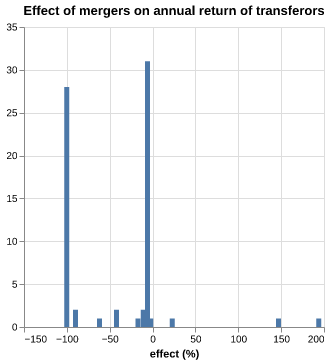
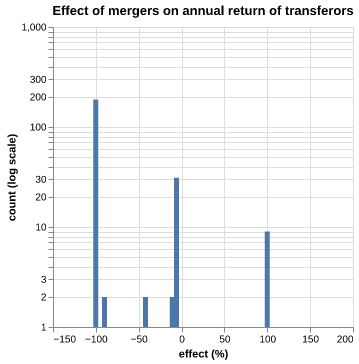
update mergers by annual return analysis

diff --git a/code/charity_commission.py b/code/charity_commission.py
@@ -43,6 +43,7 @@
 import altair as alt
 import dataframe_image as dfi
 import json
+import numpy as np
 import pandas as pd
 import seaborn as sns
 # %% [markdown]
@@ -739,7 +740,7 @@ df.head()
 
 # %%
 # convert charity number to string
-df_ar['registered_charity_number'] = df_ar['registered_charity_number'].apply(str)
+df_ar['registered_charity_number'] = df_ar['registered_charity_number'].apply(str).apply(str.strip)
 
 # %%
 # drop cols
@@ -762,8 +763,11 @@ df_merged_transferee = df.drop(
     df_ar,
     left_on=['transferee_number', 'merger_year_next'],
     right_on=['registered_charity_number', 'fin_start_year'],
-    how='left'
+    how='left',
+    suffixes=['_current', '_next']    
 )
+
+df_merged_transferee.head()
 
 # %%
 # annual return of transferors
@@ -778,8 +782,11 @@ df_merged_transferor = df.drop(
     df_ar,
     left_on=['transferor_number', 'merger_year_next'],
     right_on=['registered_charity_number', 'fin_start_year'],
-    how='left'
+    how='left',
+    suffixes=['_current', '_next']
 )
+
+df_merged_transferor.head()
 
 # %% [markdown]
 # #### Effect
@@ -787,56 +794,88 @@ df_merged_transferor = df.drop(
 # %%
 # drop null income values
 df_merged_transferee = df_merged_transferee.dropna(
-    subset=['total_gross_income_x', 'total_gross_income_y'],
+    subset=['total_gross_income_current', 'total_gross_income_next'],
     how='all'
 )
+
+# %%
+# fill empty incomes with 0
+df_merged_transferee[
+    ['total_gross_income_current', 'total_gross_income_next']
+] = df_merged_transferee[
+    ['total_gross_income_current', 'total_gross_income_next']
+].fillna(0)
 
 # %%
 # annual return change from year N to N+1
 df_merged_transferee['effect'] = (
     (
-        df_merged_transferee['total_gross_income_y']
-        - df_merged_transferee['total_gross_income_x']
+        df_merged_transferee['total_gross_income_next']
+        - df_merged_transferee['total_gross_income_current']
     )
-    / df_merged_transferee['total_gross_income_x']
+    / df_merged_transferee['total_gross_income_current']
     * 100
 )
 
 # %%
+# replace incomes appearing or disappearing by +/-100
+df_merged_transferee['effect'] = df_merged_transferee['effect'].replace([-np.inf, np.inf], [-100, 100])
+
+# %%
 # drop null income values
 df_merged_transferor = df_merged_transferor.dropna(
-    subset=['total_gross_income_x', 'total_gross_income_y'],
+    subset=['total_gross_income_current', 'total_gross_income_next'],
     how='all'
 )
+
+# %%
+# fill empty incomes with 0
+df_merged_transferor[
+    ['total_gross_income_current', 'total_gross_income_next']
+] = df_merged_transferor[
+    ['total_gross_income_current', 'total_gross_income_next']
+].fillna(0)
 
 # %%
 # annual return change from year N to N+1
 df_merged_transferor['effect'] = (
     (
-        df_merged_transferor['total_gross_income_y']
-        - df_merged_transferor['total_gross_income_x']
+        df_merged_transferor['total_gross_income_next']
+        - df_merged_transferor['total_gross_income_current']
     )
-    / df_merged_transferor['total_gross_income_x']
+    / df_merged_transferor['total_gross_income_current']
     * 100
 )
+
+# %%
+# replace incomes appearing or disappearing by +/-100
+df_merged_transferor['effect'] = df_merged_transferor['effect'].replace([-np.inf, np.inf], [-100, 100])
 
 # %% [markdown]
 # ### Effect of mergers on annual return (draft)
 
 # %%
-# charities with no income before merger
+# mergers with no income before merger and income after
 new_charities = df_merged_transferee.loc[
     (
-        pd.isna(df_merged_transferee['total_gross_income_x'])
-        | (df_merged_transferee['total_gross_income_x'] == 0)
+        pd.isna(df_merged_transferee['total_gross_income_current'])
+        | (df_merged_transferee['total_gross_income_current'] == 0)
     )
-    & (df_merged_transferee['total_gross_income_y'] > 0)
-].shape[0] / df_merged_transferee.shape[0]
+    & (df_merged_transferee['total_gross_income_next'] > 0)
+]
+
+# count consolidations as 1 merger
+new_charities = new_charities.drop_duplicates(
+    subset=['transferee', 'date_transferred']
+)
+
+# calculate percentage
+new_charities = new_charities.shape[0] / df_merged_transferee.shape[0]
 
 print(f'{new_charities:.0%} of mergers result in the creation of new charities')
 
 # %% [markdown]
-# 12% of mergers result in the creation of new charities.
+# 11% of mergers result in the creation of new charities.
 #
 # As indicated by the number of unregistered organisations or organisations with an annual return of 0 before merger, and >0 after merger.
 
@@ -844,10 +883,20 @@ print(f'{new_charities:.0%} of mergers result in the creation of new charities')
 # charities with an income before and after merger
 existing_charities = df_merged_transferee.loc[
     ~(
-        pd.isna(df_merged_transferee['total_gross_income_x'])
-        | (df_merged_transferee['total_gross_income_x'] == 0)
+        pd.isna(df_merged_transferee['total_gross_income_current'])
+        | (df_merged_transferee['total_gross_income_current'] == 0)
     )
 ]
+
+# %%
+# frequent effect sizes
+existing_charities[['transferee', 'effect']].value_counts()[:10]
+
+# %%
+# count consolidations as 1 merger
+existing_charities = existing_charities[['transferee', 'date_transferred', 'effect']].drop_duplicates()
+
+existing_charities.head()
 
 # %%
 # effect of mergers on annual return
@@ -856,7 +905,7 @@ chart = (
     .mark_bar()
     .encode(
         alt.X('effect:Q').scale(domain=[-105, 105], clamp=True).title('effect (%)'),
-        alt.Y('count():Q').title(''),
+        alt.Y('count():Q').scale(type='log').title('count (log scale)'),
     )
 ).properties(
     title='Effect of mergers on annual return of transferees'
@@ -867,48 +916,19 @@ chart.save('../charts/effect_transferees.png')
 chart
 
 # %% [markdown]
-# Most mergers seem to result in the transferee having a 80% decrease of their annual return.
+# After a merger, most transferee organisations either cease to exist or have a +/- 40% change to their annual return.
+
+# %% [markdown]
+# According to the data, most mergers (including consolidation mergers) are of the type:
 #
-# This peak at 1200 is reminiscent of a previous chart however...
+# - the transferees do not declare an annual return, indicating either that they cease to exist within the financial period
+# - the transferee have a +/- 40% change to their annual returns within the financial period that a merger happened in.
+#
+# The majority of transferees disappearing after a merger is suspicious and might indicate an issue in the analysis or a subsequent merger into a new structure within the financial period.
 
 # %%
-# charities with especially large effects
-existing_charities.loc[
-    (existing_charities['effect'] < -75)
-    & (existing_charities['effect'] > -80) 
-]
-
-# %% [markdown]
-# What happens if we exclude Kingdom Hall Trust from our analysis?
-
-# %%
-# drop Kingdom Hall Trust from records
-existing_charities_sans_kht = existing_charities.loc[
-    ~existing_charities['transferee'].str.lower().str.contains('kingdom hall')
-]
-
-# %%
-# effect of mergers on annual return
-chart = (
-    alt.Chart(existing_charities_sans_kht['effect'].dropna().apply(round).to_frame())
-    .mark_bar()
-    .encode(
-        alt.X('effect:Q').scale(domain=[-105, 105], clamp=True).title('effect (%)'),
-        alt.Y('count():Q').title(''),
-    )
-).properties(
-    title=[
-        'Effect of mergers on annual return of transferees',
-        '(sans Kingdom Hall Trust)'
-    ]
-)
-
-chart.save('../charts/effect_transferees_sans.png')
-
-chart
-
-# %% [markdown]
-# The bulk of transferees seem to have had +/- 40% change to their annual returns within the financial period that a merger happened in.
+# count consolidations as 1 merger
+df_merged_transferor[['transferor', 'date_transferred', 'effect']].value_counts(dropna=False)
 
 # %%
 # effect of mergers on annual return
@@ -917,7 +937,7 @@ chart = (
     .mark_bar()
     .encode(
         alt.X('effect:Q').title('effect (%)'),
-        alt.Y('count():Q').title('')
+        alt.Y('count():Q').scale(type='log').title('count (log scale)')
     )
 ).properties(
     title='Effect of mergers on annual return of transferors'
@@ -930,8 +950,7 @@ chart
 # %% [markdown]
 # For most transferors, their annual return either went to 0 or remained the same.
 #
-#
-# This indicates that most transferors either merge into the transferee and cease to exist as an entity, or their merger is largely inconsequential in terms of annual return.
+# This indicates that most transferors either merge into the transferee and cease to exist as an entity (effect -100%), or their merger is largely inconsequential in terms of annual return. However, some transferors declare their first annual return after the merger (effect +100%), which raises questions about the analysis, but a domain expert might be able to explain this. 
 
 # %% [markdown]
 # ## Trustees
